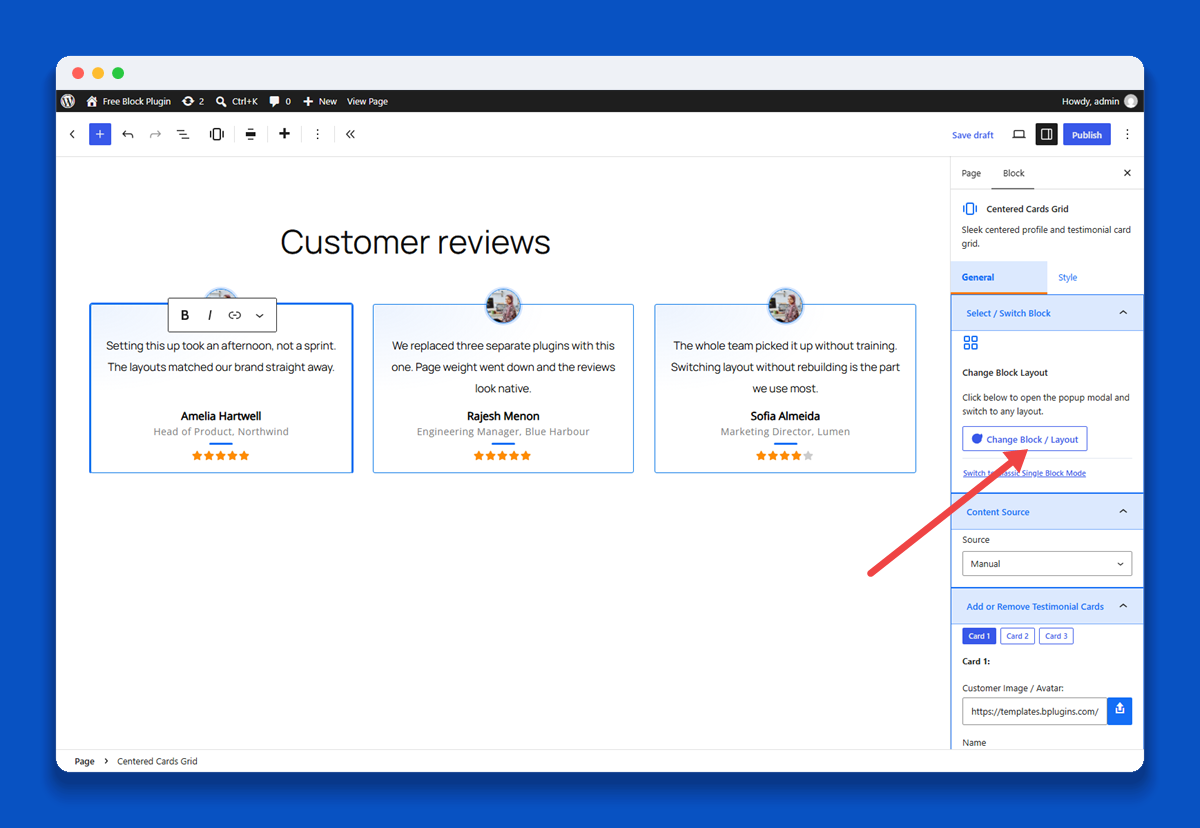
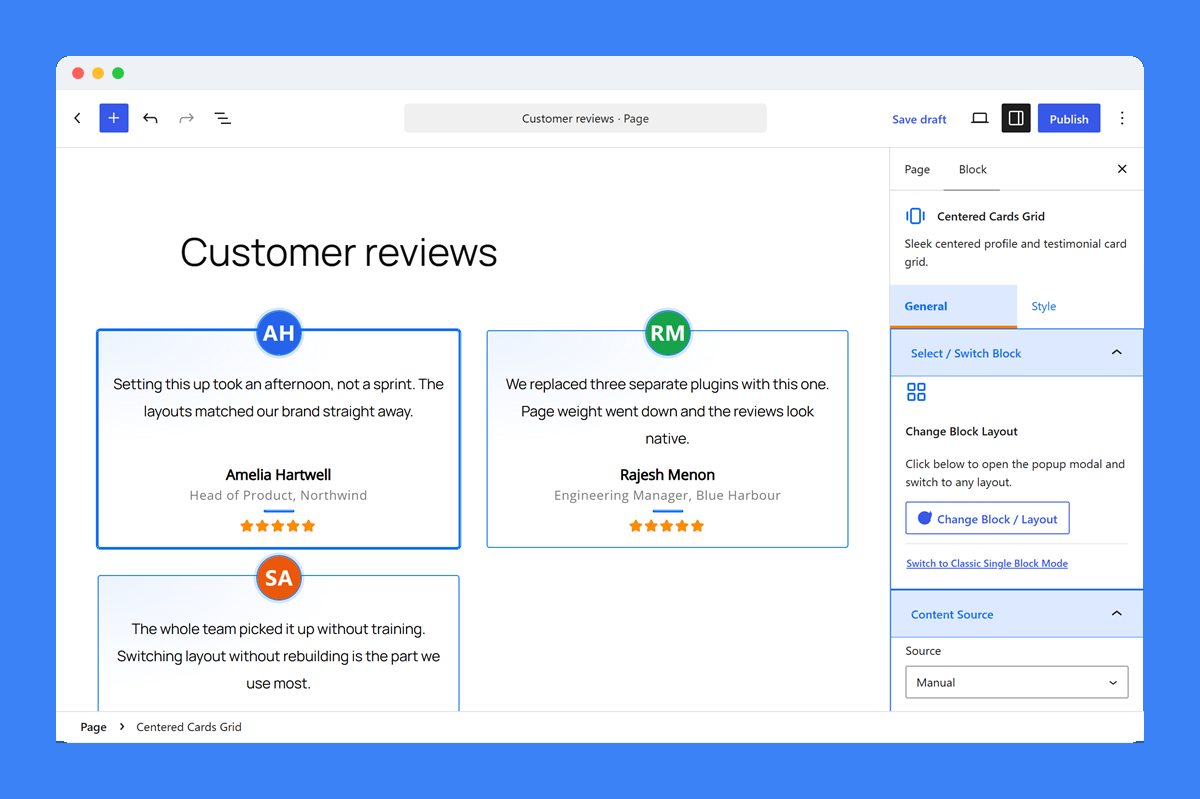
updated some screenshots image

diff --git a/index.html b/index.html
@@ -1651,7 +1651,9 @@
               </li>
               <li>Log in with the account that manages your business Page and allow access.</li>
               <li>If you manage several Pages, choose the right one.</li>
-              <li>The popup closes and the page reloads. You now see a green <strong>CONNECTED</strong> label and a <strong>Disconnect Facebook</strong> button.</li>
+              <li>The popup closes and the page reloads. You now see a green <strong>CONNECTED</strong> label and a <strong>Disconnect Facebook</strong> button.
+                <figure class="media-slot" data-media="image" data-src="docs-assets/facebook-connected-state.png" data-caption="The Facebook card after connecting. The arrows mark the green CONNECTED label and the Disconnect Facebook button."></figure>
+              </li>
             </ol>
             <p>You never copy any secret codes. The plugin handles them for you.</p>
             <h3>Way 2: Type in a Page access token yourself (for advanced users only)</h3>

diff --git a/docs-assets/WRITING-STANDARD.md b/docs-assets/WRITING-STANDARD.md
@@ -1,0 +1,46 @@
+# Writing standard for DOCUMENTATION.html
+
+The reader is a site owner, not a developer. They should never feel buried. Every page must be easy to scan and easy to follow.
+
+## 1. Keep it short
+
+- One idea per paragraph. A paragraph has 1 to 3 short sentences. Never more than 35 words.
+- A sentence has one thought. Aim for 12 words or fewer.
+- If a page can say it in half the words, say it in half the words.
+- A page has a one or two sentence opening that says what the reader will get.
+
+## 2. Steps first
+
+- If the reader has to do something, write numbered steps. One action per step.
+- Start each step with a verb: Open, Click, Type, Switch on, Choose.
+- Bold the name of the button or field exactly as it appears on screen.
+- Each step that clicks something has one screenshot with an arrow (see SCREENSHOT-STANDARD.md).
+- Keep a step to one or two sentences. A reason, if needed, goes in one short sentence after the action.
+
+## 3. Lists beat paragraphs, but keep lists small
+
+- Use a short list for options. 3 to 5 items is best. Never more than 7 in a row.
+- Do not use a table for something a short list can say. Keep a table only when the reader truly compares columns.
+- Do not repeat the same facts in two places. Explain once, where the reader does the task. Elsewhere, write "See ..." with a link.
+
+## 4. Plain words
+
+- Write the way you would explain it to a friend. Say "you", not "the user".
+- No jargon without a one line meaning. Prefer the everyday word.
+- Say why before how, in one sentence.
+- No dashes, curly quotes, arrows, or ellipsis. Use plain full stops and commas.
+
+## 5. Help the eye
+
+- Use headings that say what the reader wants to do: "Add a search box", not "Search box configuration".
+- Use a callout only for one thing that really matters: a warning or a tip. One callout per section at most.
+- Leave out developer details (hooks, filters, REST routes, internal limits). They live in DEVELOPERS.html.
+
+## 6. Check before you save
+
+1. Is any paragraph longer than 35 words? Split or cut it.
+2. Is any list longer than 7 items? Group it or cut it.
+3. Is the same fact written in two places? Keep one.
+4. Does every click step have a screenshot with an arrow?
+5. Any special characters? Remove them.
+6. Write to a temp file, check the size, then rename. Never write straight over DOCUMENTATION.html.

diff --git a/docs-assets/SCREENSHOT-STANDARD.md b/docs-assets/SCREENSHOT-STANDARD.md
@@ -1,0 +1,46 @@
+# Screenshot standard for DOCUMENTATION.html
+
+Follow this for every new or updated image in docs-assets. It keeps the guide looking like one product.
+
+## 1. What every step image must have
+
+- One image for every numbered step that asks the reader to click, type, switch or open something.
+- A red arrow on the exact control the step names. Not on a panel nearby. Not on a heading above it.
+- Two arrows only when one step names two controls.
+- Result images (a finished page, a front end view) need no arrow. Say so in the caption.
+
+## 2. Show the whole screen
+
+- Show the full editor or the full wp-admin page. Never crop down to one panel or one card.
+- Editor: canvas on the left, sidebar open on the right, with the target panel scrolled into view.
+- wp-admin: scroll the target into view, then take the full window.
+- Take it at 1200 by 900, device scale 2.
+
+## 3. Nothing from the site may leak in
+
+- No black WordPress admin bar at the top. Crop the top 64 raw pixels, or hide it.
+- No site name, no "Howdy, admin", no site menu, no site header or footer.
+- No "Edit with Elementor" button or other third party buttons in the editor toolbar.
+- No ads or "Available to install" lists from the block directory.
+- No personal accounts, avatars, billing names or other projects. Blur or avoid them.
+- Use the same demo data in every image: reviewer names, ratings, and category names must match the text.
+
+## 4. The house frame
+
+- Blue canvas, 56 px margin on all sides, white window with three traffic lights.
+- Final width is 1195 px. Arrow is red, #EF4444.
+- Arrow tail sits on empty space where it can, and the tip lands inside the control, not past it.
+- Do not let the arrow cover the label it points at. Aim at the edge of the control instead.
+
+## 5. Captions
+
+- Say what the reader sees and what the arrow marks. One or two short sentences.
+- Plain words. No dashes, curly quotes, arrows, or ellipses in the text.
+
+## 6. Check before you save
+
+1. Open the final PNG. Is there an admin bar? A site name? A third party button?
+2. Is the arrow tip on the control the step names?
+3. Does the data match the text of the step?
+4. Is the file bigger than 2 KB and listed in the guide?
+5. Write the new file to a temp name, check the size, then rename it. Never write straight over DOCUMENTATION.html.
